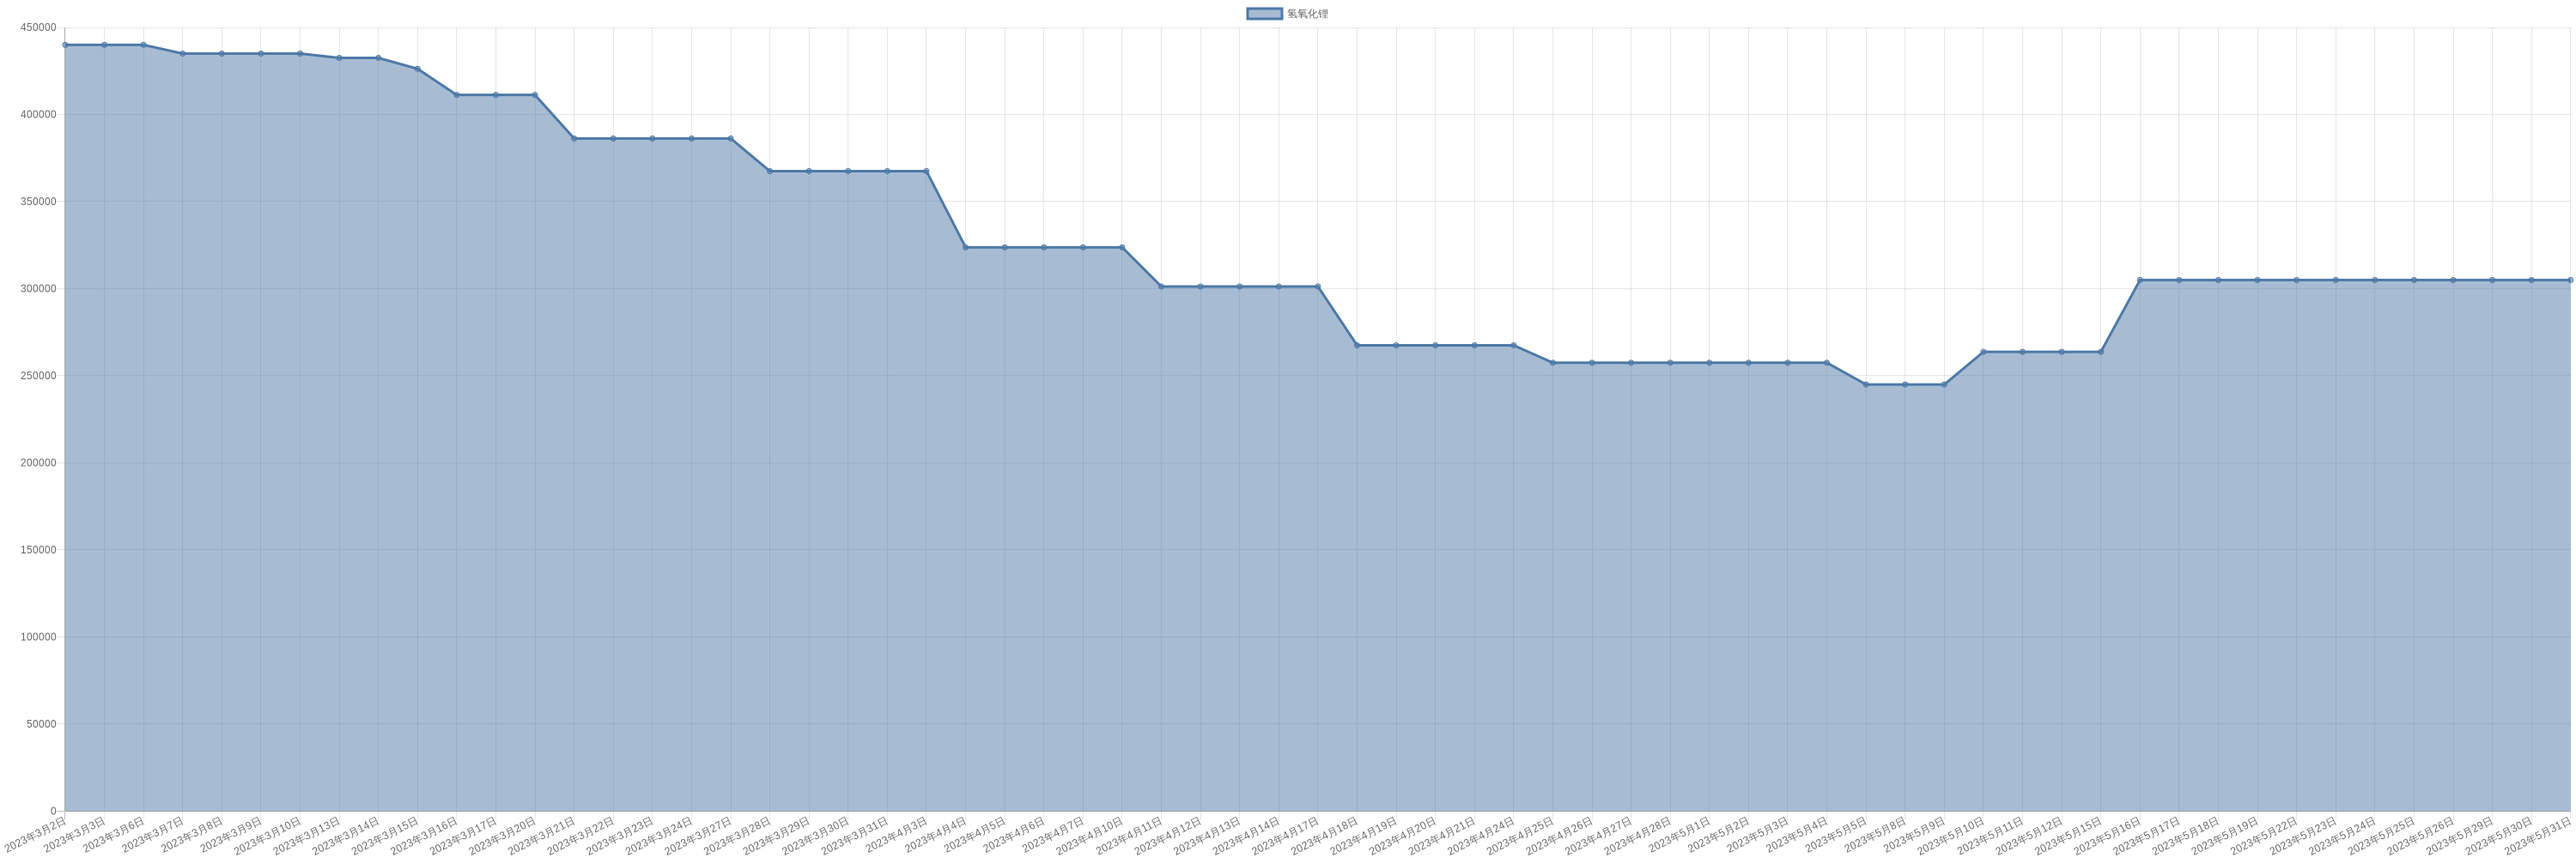
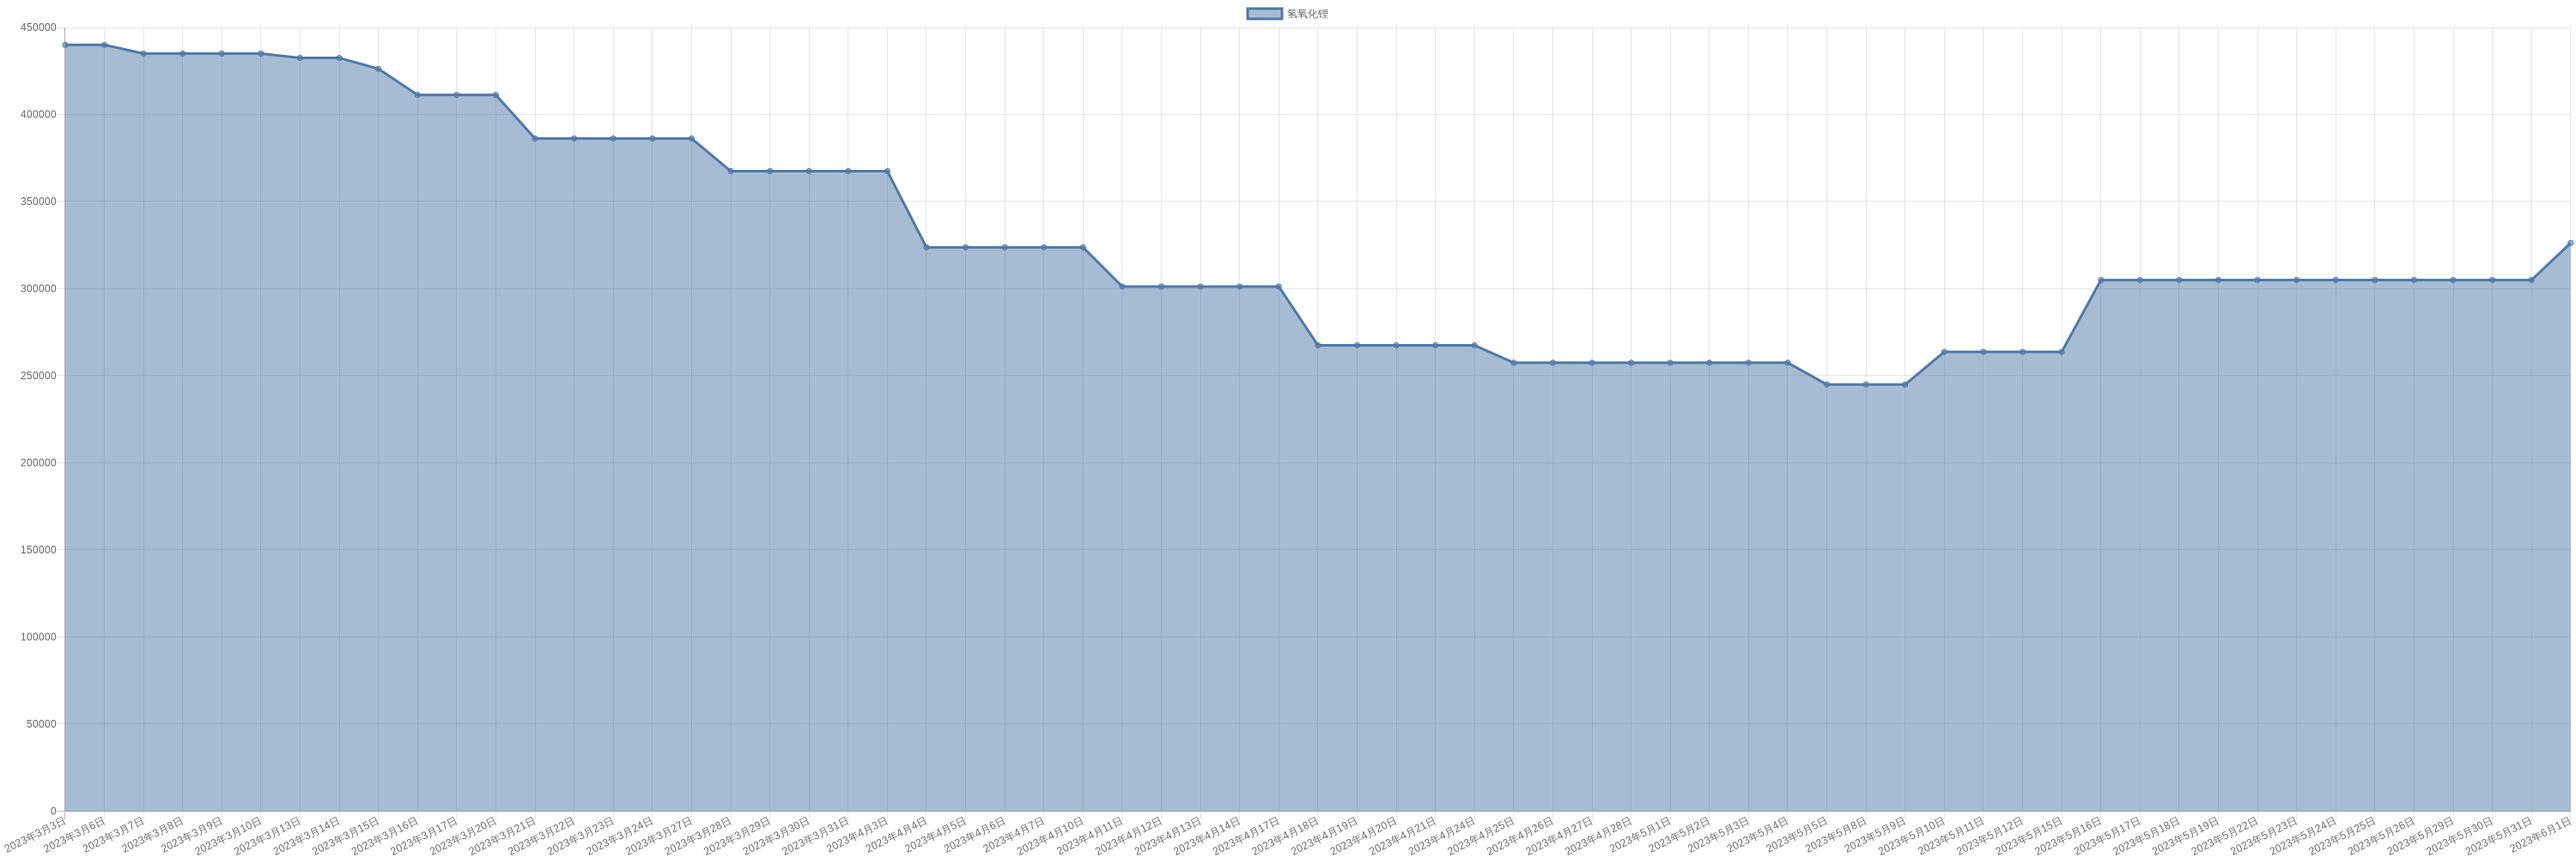
chore: sync commodity monitor

diff --git a/markdown/commodity/crudeOil.md b/markdown/commodity/crudeOil.md
@@ -2,6 +2,8 @@
 
 | 时间 | 价格 | 消息正文 |
 |:--:|:--:|:--:|
+|2023年6月1日WTI|68.09|6月1日WTI原油为68.09|
+|2023年6月1日Brent|72.6|6月1日Brent原油为72.60|
 |2023年5月31日WTI|69.46|5月31日WTI原油为69.46|
 |2023年5月31日Brent|73.71|5月31日Brent原油为73.71|
 |2023年5月30日Brent|77.1|5月30日Brent原油为77.10|

diff --git a/markdown/commodity/praseodymiumNeodymiumOxide.md b/markdown/commodity/praseodymiumNeodymiumOxide.md
@@ -8,6 +8,7 @@
 
 | 时间 | 价格 | 消息正文 |
 |:--:|:--:|:--:|
+|2023年6月1日|492500|6月1日镨钕氧化物为492500.00|
 |2023年5月31日|500000|5月31日镨钕氧化物为500000.00|
 |2023年5月30日|507500|5月30日镨钕氧化物为507500.00|
 |2023年5月29日|502500|5月29日镨钕氧化物为502500.00|

diff --git a/markdown/commodity/dyFeAlloy.md b/markdown/commodity/dyFeAlloy.md
@@ -8,6 +8,7 @@
 
 | 时间 | 价格 | 消息正文 |
 |:--:|:--:|:--:|
+|2023年6月1日|2070000|6月1日镝铁合金为2070000.00|
 |2023年5月31日|2070000|5月31日镝铁合金为2070000.00|
 |2023年5月30日|2080000|5月30日镝铁合金为2080000.00|
 |2023年5月29日|2080000|5月29日镝铁合金为2080000.00|

diff --git a/markdown/commodity/lithiumHydroxide.md b/markdown/commodity/lithiumHydroxide.md
@@ -8,6 +8,7 @@
 
 | 时间 | 价格 | 消息正文 |
 |:--:|:--:|:--:|
+|2023年6月1日|326250|6月1日氢氧化锂为326250.00|
 |2023年5月31日|305000|5月31日氢氧化锂为305000.00|
 |2023年5月30日|305000|5月30日氢氧化锂为305000.00|
 |2023年5月29日|305000|5月29日氢氧化锂为305000.00|

diff --git a/markdown/commodity/praseodymiumNeodymiumAlloy.md b/markdown/commodity/praseodymiumNeodymiumAlloy.md
@@ -8,6 +8,7 @@
 
 | 时间 | 价格 | 消息正文 |
 |:--:|:--:|:--:|
+|2023年6月1日|605000|6月1日镨钕合金为605000.00|
 |2023年5月31日|610000|5月31日镨钕合金为610000.00|
 |2023年5月30日|615000|5月30日镨钕合金为615000.00|
 |2023年5月29日|600000|5月29日镨钕合金为600000.00|

diff --git a/markdown/commodity/dysprosiumMetal.md b/markdown/commodity/dysprosiumMetal.md
@@ -8,6 +8,7 @@
 
 | 时间 | 价格 | 消息正文 |
 |:--:|:--:|:--:|
+|2023年6月1日|2680000|6月1日金属镝为2680000.00|
 |2023年5月31日|2680000|5月31日金属镝为2680000.00|
 |2023年5月30日|2680000|5月30日金属镝为2680000.00|
 |2023年5月29日|2680000|5月29日金属镝为2680000.00|

diff --git a/markdown/commodity/dysprosiumOxide.md b/markdown/commodity/dysprosiumOxide.md
@@ -8,6 +8,7 @@
 
 | 时间 | 价格 | 消息正文 |
 |:--:|:--:|:--:|
+|2023年6月1日|2105000|6月1日氧化镝为2105000.00|
 |2023年5月31日|2115000|5月31日氧化镝为2115000.00|
 |2023年5月30日|2130000|5月30日氧化镝为2130000.00|
 |2023年5月29日|2130000|5月29日氧化镝为2130000.00|

diff --git a/markdown/commodity/liquefiedNaturalGas.md b/markdown/commodity/liquefiedNaturalGas.md
@@ -8,6 +8,7 @@
 
 | 时间 | 价格 | 消息正文 |
 |:--:|:--:|:--:|
+|2023年6月1日|3750|6月1日液化天然气为3750.00|
 |2023年5月31日|3760|5月31日液化天然气为3760.00|
 |2023年5月30日|3728|5月30日液化天然气为3728.00|
 |2023年5月29日|3820|5月29日液化天然气为3820.00|

diff --git a/markdown/commodity/lithiumIronPhosphate.md b/markdown/commodity/lithiumIronPhosphate.md
@@ -8,6 +8,7 @@
 
 | 时间 | 价格 | 消息正文 |
 |:--:|:--:|:--:|
+|2023年6月1日|92000|6月1日磷酸铁锂为92000.00|
 |2023年5月31日|92000|5月31日磷酸铁锂为92000.00|
 |2023年5月30日|92000|5月30日磷酸铁锂为92000.00|
 |2023年5月29日|92000|5月29日磷酸铁锂为92000.00|

diff --git a/markdown/commodity/neodymium.md b/markdown/commodity/neodymium.md
@@ -8,6 +8,7 @@
 
 | 时间 | 价格 | 消息正文 |
 |:--:|:--:|:--:|
+|2023年6月1日|640000|6月1日金属钕为640000.00|
 |2023年5月31日|640000|5月31日金属钕为640000.00|
 |2023年5月30日|640000|5月30日金属钕为640000.00|
 |2023年5月29日|630000|5月29日金属钕为630000.00|

diff --git a/markdown/commodity/neodymiumOxide.md b/markdown/commodity/neodymiumOxide.md
@@ -8,6 +8,7 @@
 
 | 时间 | 价格 | 消息正文 |
 |:--:|:--:|:--:|
+|2023年6月1日|505000|6月1日氧化钕为505000.00|
 |2023年5月31日|510000|5月31日氧化钕为510000.00|
 |2023年5月30日|520000|5月30日氧化钕为520000.00|
 |2023年5月29日|500000|5月29日氧化钕为500000.00|

diff --git a/markdown/commodity/praseodymium.md b/markdown/commodity/praseodymium.md
@@ -8,6 +8,7 @@
 
 | 时间 | 价格 | 消息正文 |
 |:--:|:--:|:--:|
+|2023年6月1日|635000|6月1日金属镨为635000.00|
 |2023年5月31日|635000|5月31日金属镨为635000.00|
 |2023年5月30日|635000|5月30日金属镨为635000.00|
 |2023年5月29日|635000|5月29日金属镨为635000.00|
